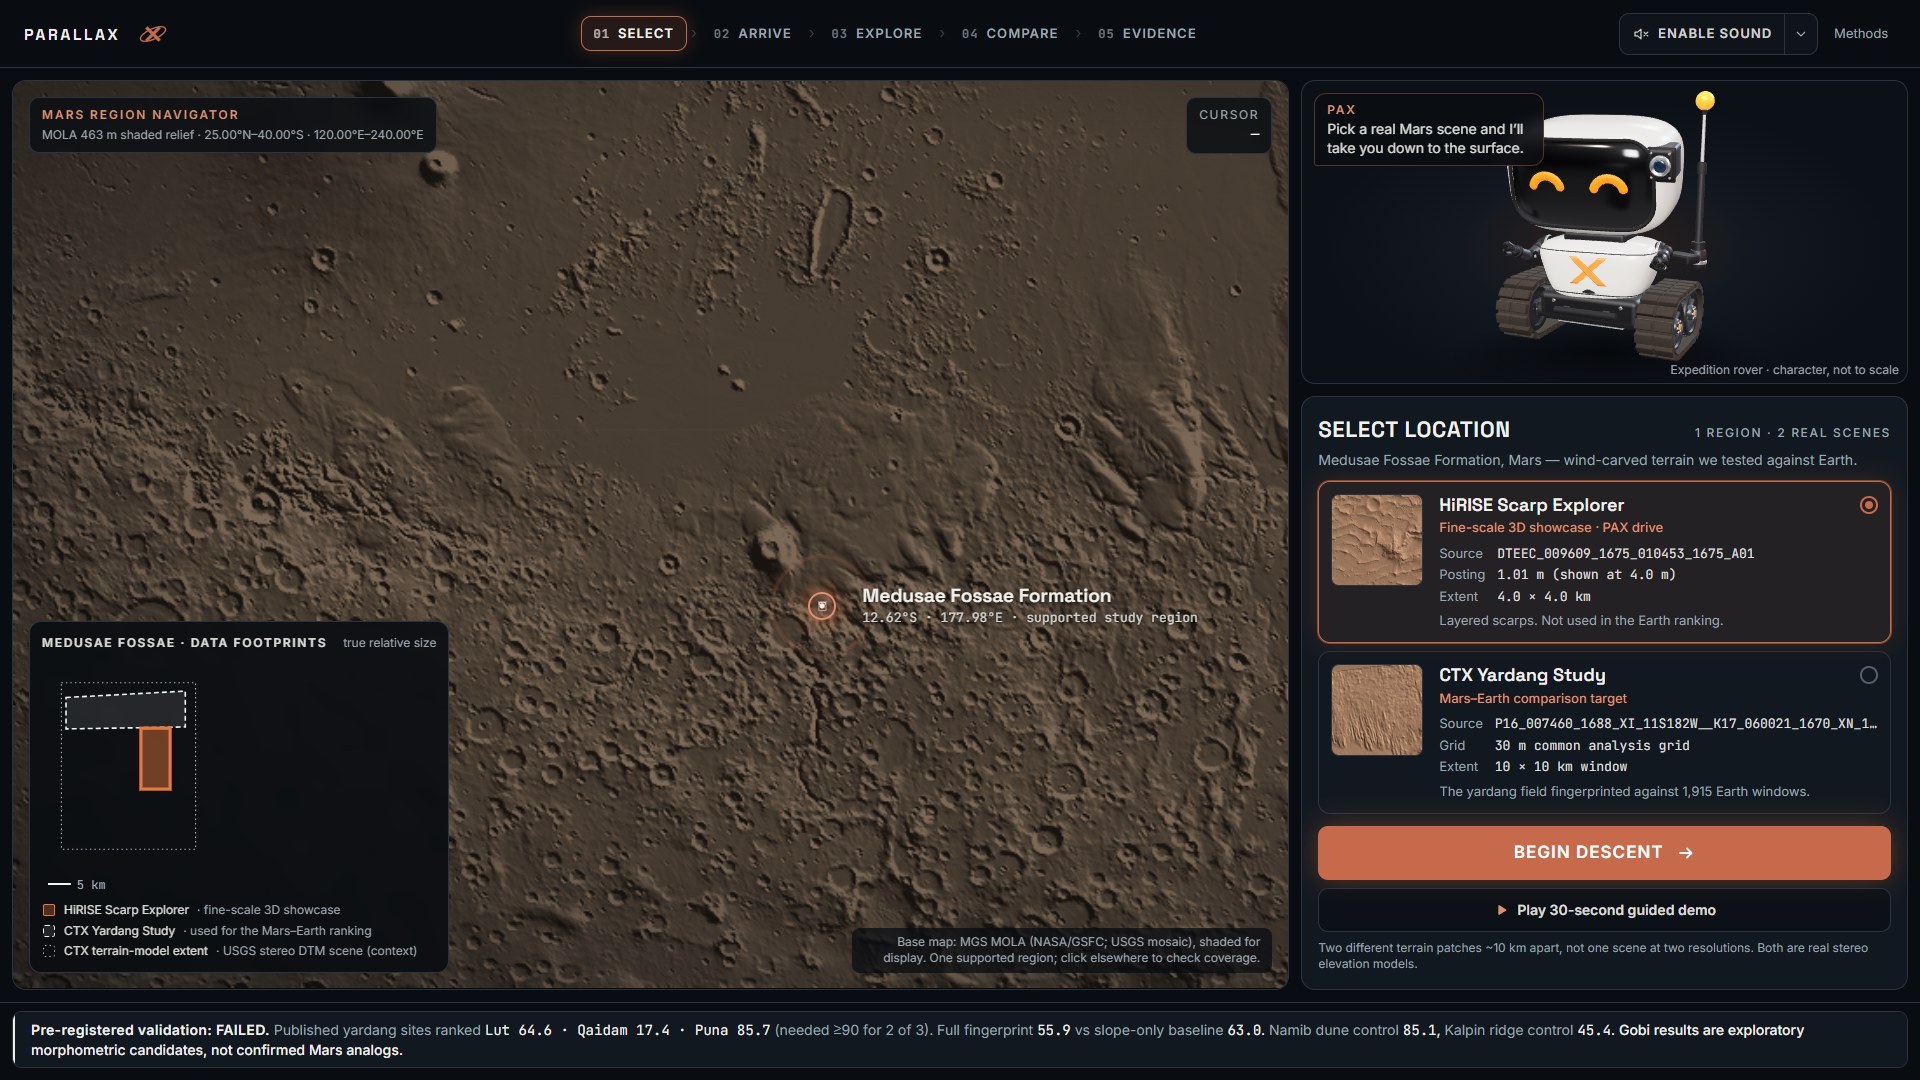
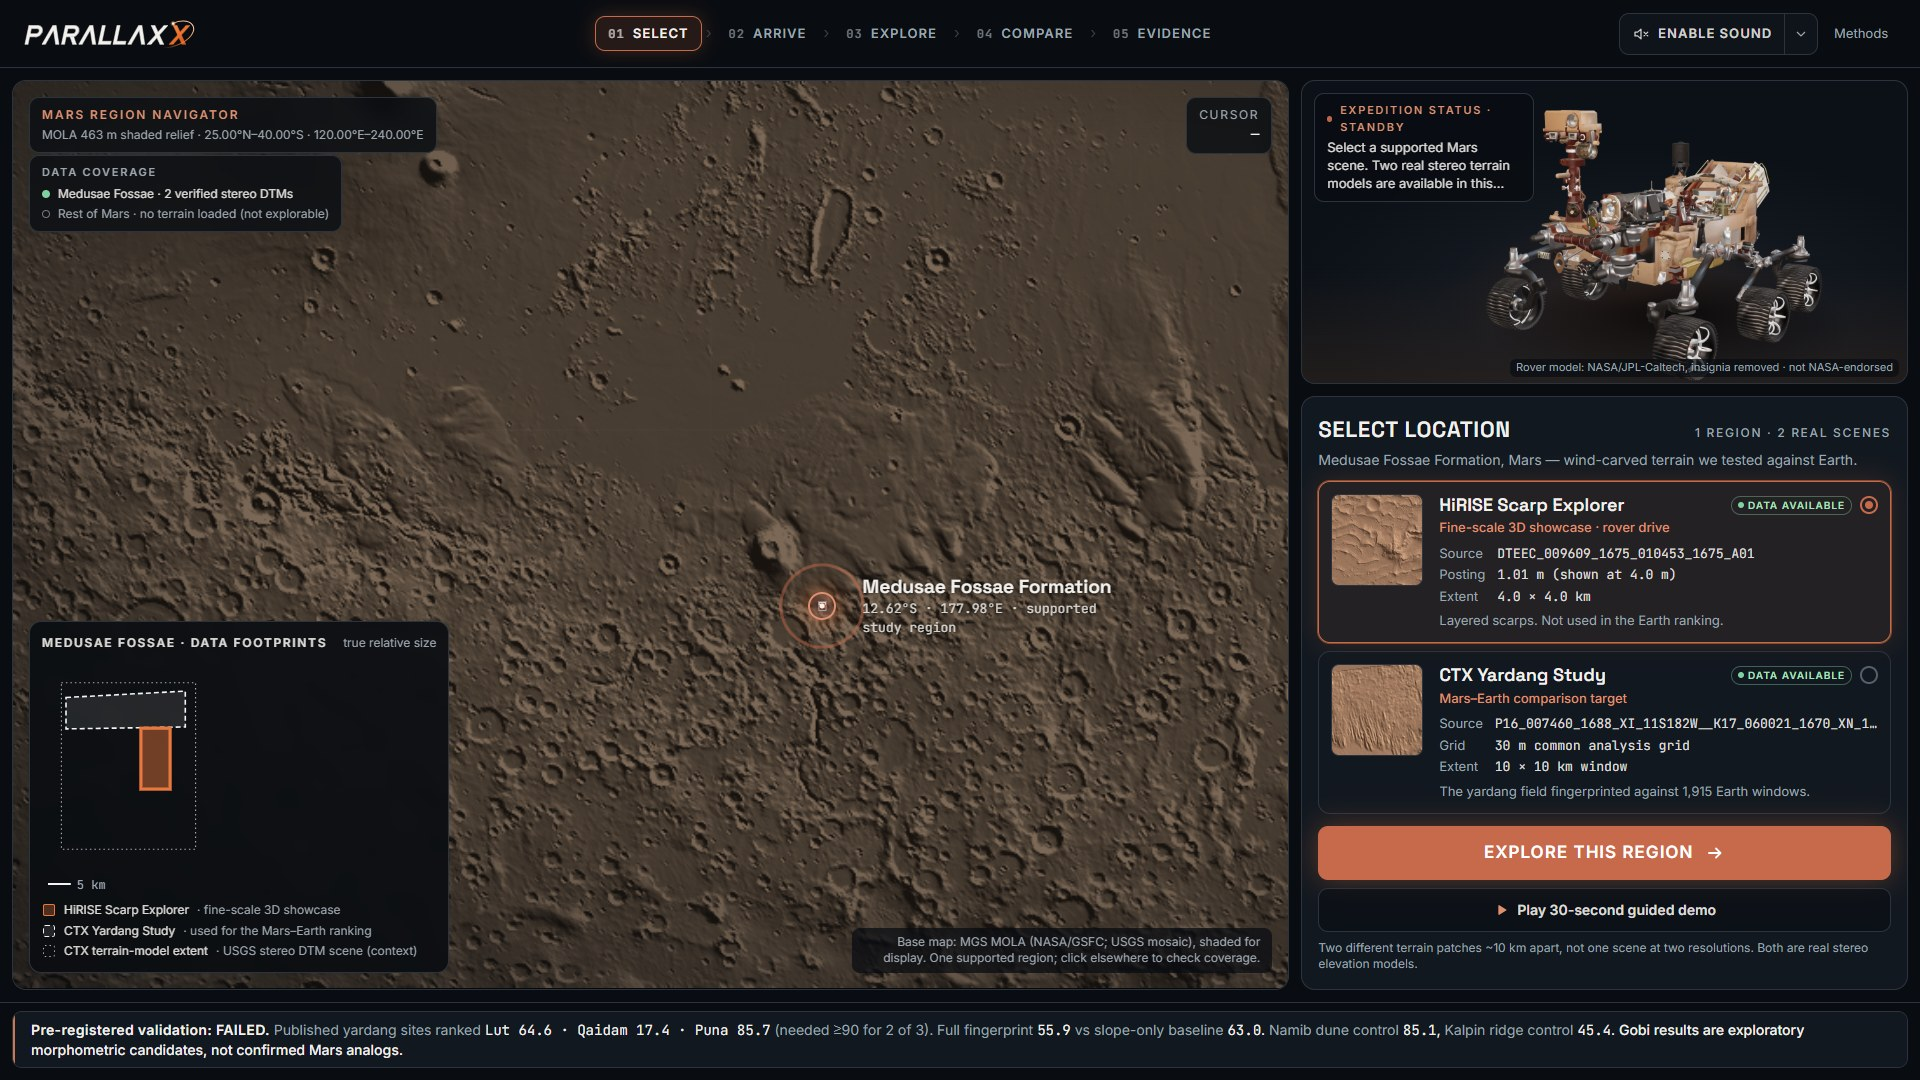
docs: production screenshots and real-time recordings of the intro, rover drive and guided demo

diff --git a/README.md b/README.md
@@ -42,7 +42,7 @@ We think an honest failure is a useful contribution. It shows which questions pu
 Every number is read from [`public/data/results.json`](public/data/results.json).
 
 **Screenshots** (real production captures at 1920×1080, 1440×900, 1366×768 and 390×844): [`docs/screenshots/`](docs/screenshots/).
-**Guided demo clip** (real browser capture, animated WebP): [`docs/demo/parallax-x-guided-demo.webp`](docs/demo/parallax-x-guided-demo.webp).
+**Recordings** (real-time browser screencasts of the production site, animated WebP; the frame rate is limited by the capture machine's integrated GPU): [guided demo](docs/demo/parallax-x-guided-demo.webp), [welcome intro](docs/demo/welcome-intro.webp), [rover simulation](docs/demo/rover-simulation.webp).
 
 ## How it works (no AI training)
 Offline Python (GDAL/rasterio, NumPy, SciPy) runs the full chain:
